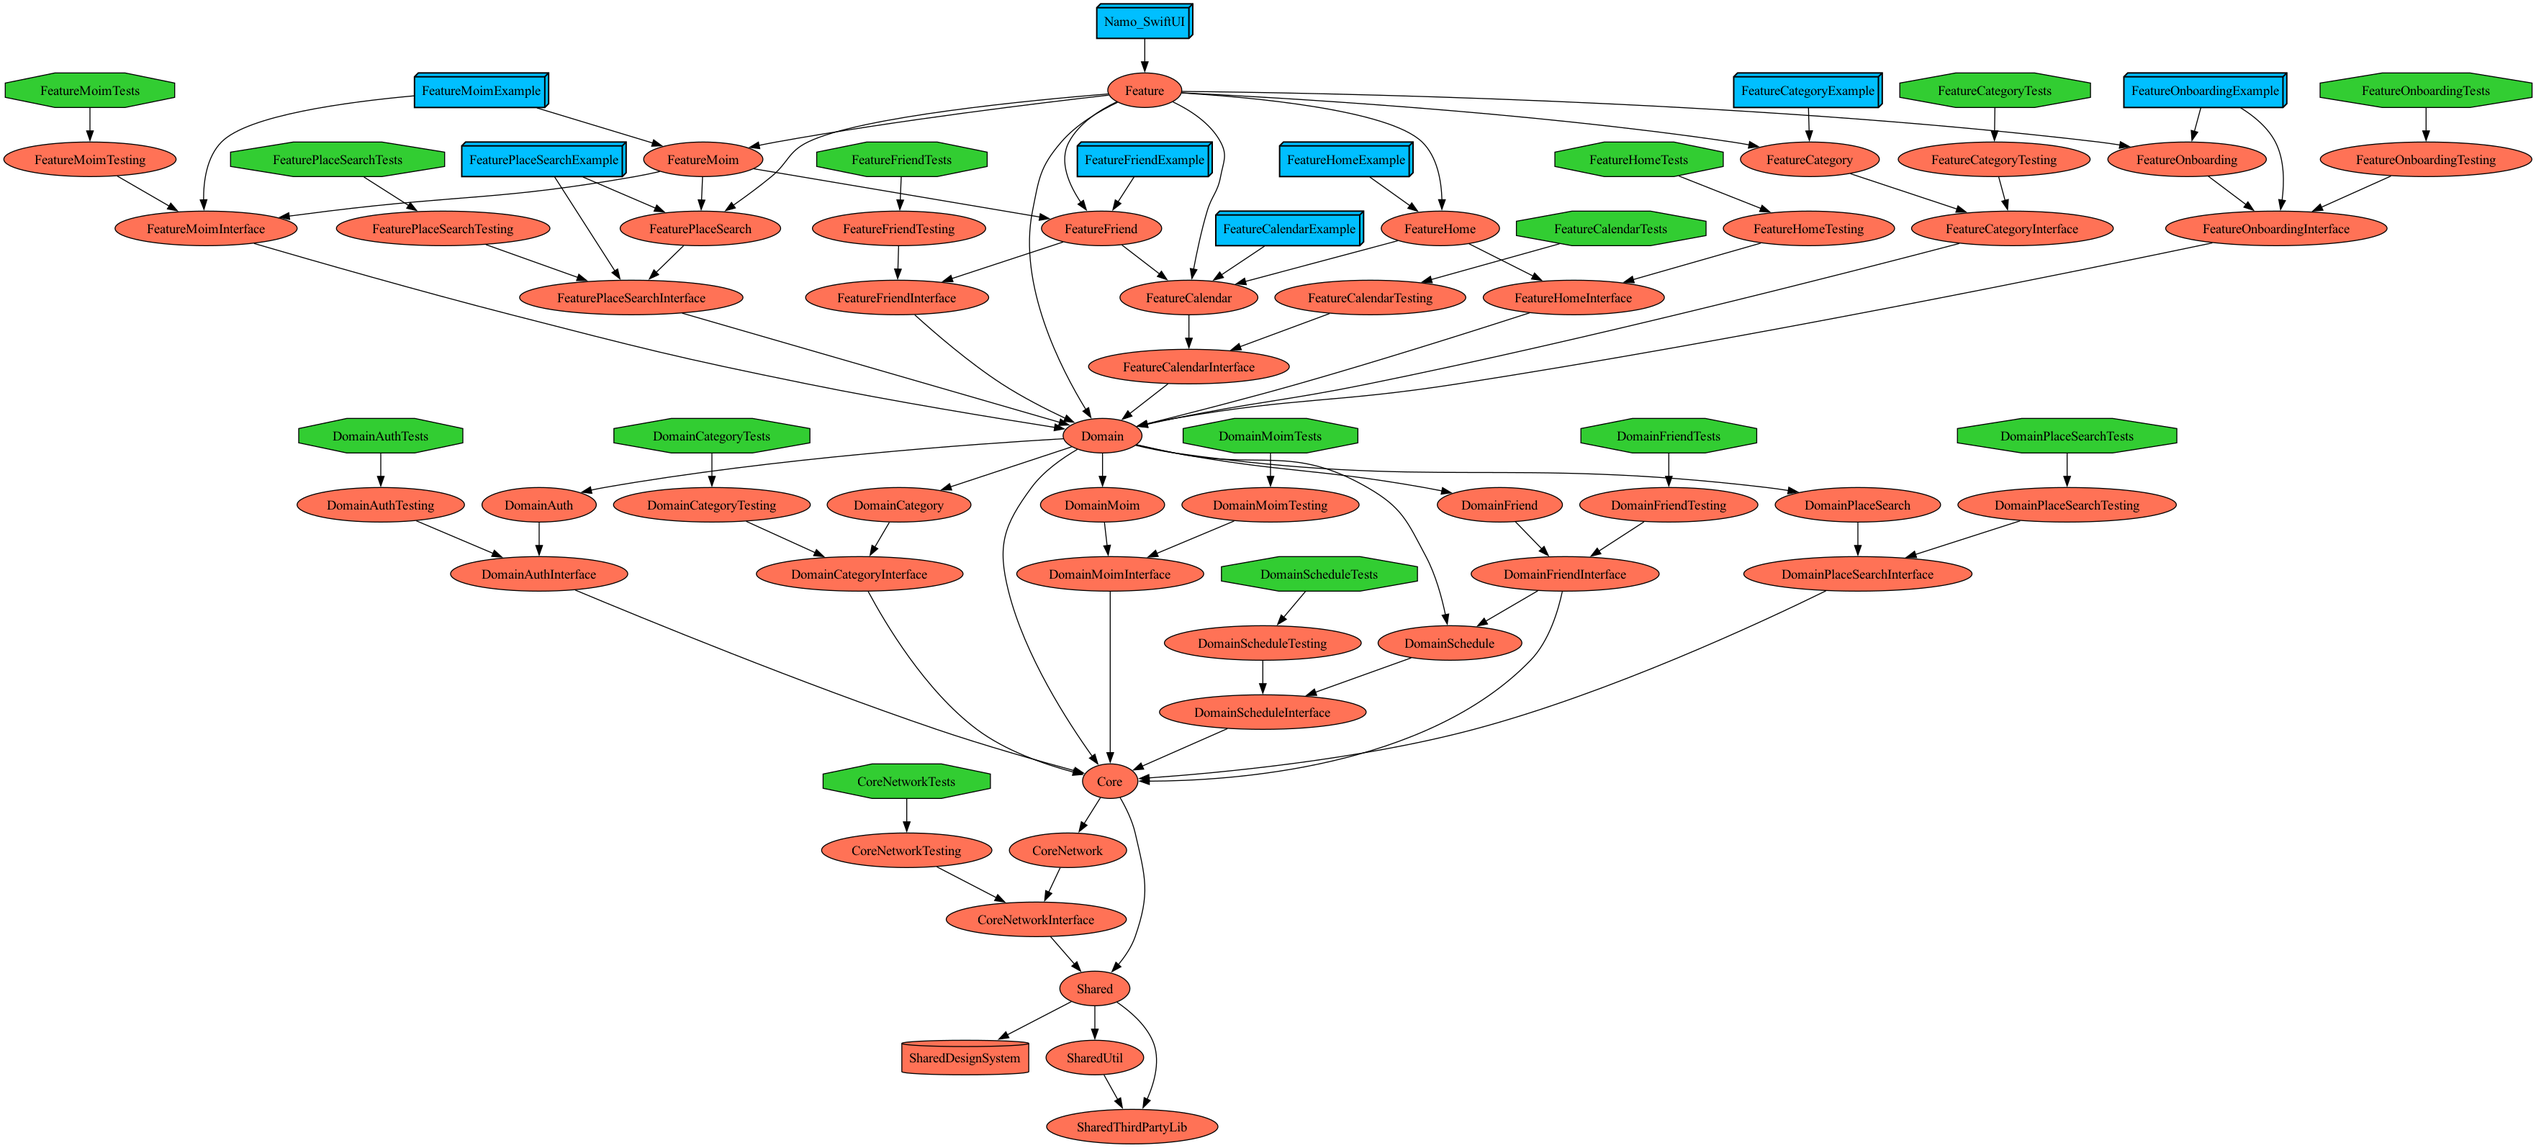
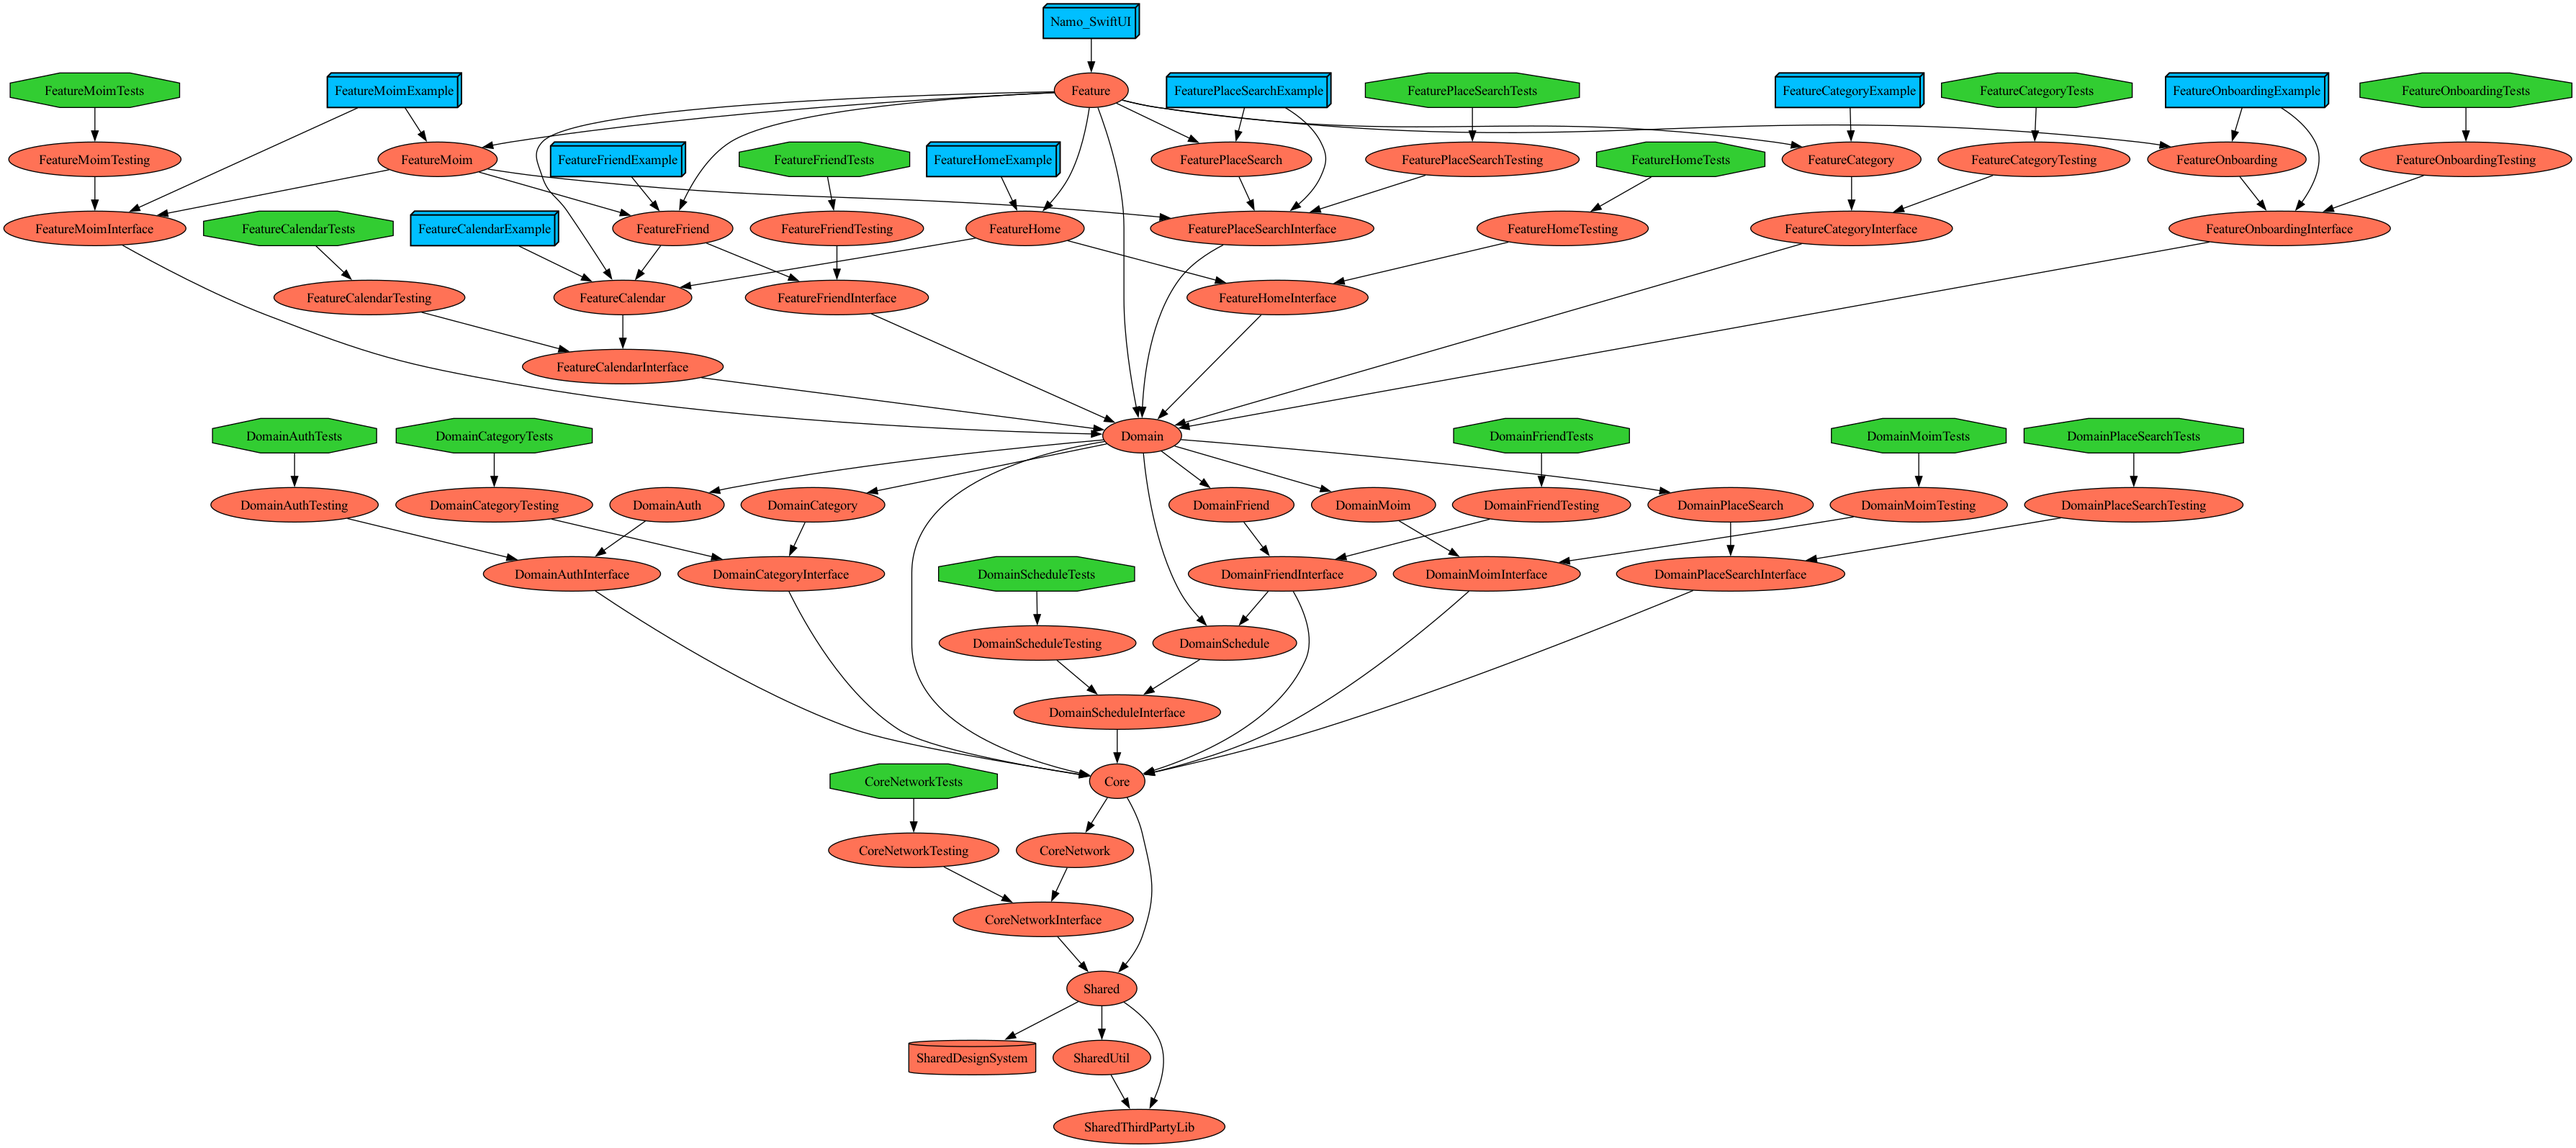
Chore: PlaceSearchView -> Interface 모듈로 이동

Changed region(s): [[0.0, 0.0, 0.9991, 1.0], [0.0, 0.0614, 0.0624, 0.0922], [0.562, 0.3072, 0.5932, 0.3379]]

diff --git a/Namo_SwiftUI/Projects/Feature/Moim/Interface/Sources/MoimEdit/MoimEditInterface.swift b/Namo_SwiftUI/Projects/Feature/Moim/Interface/Sources/MoimEdit/MoimEditInterface.swift
@@ -18,9 +18,7 @@ public struct MoimEditStore {
     
     /// 편집 여부
     public enum Mode: Equatable {
-        case view
-        case edit
-        case compose
+        case view, edit, compose
     }
     private let reducer: Reduce<State, Action>
     
@@ -49,14 +47,12 @@ public struct MoimEditStore {
         /// 커버이미지
         public var coverImage: UIImage?
         
-        /// 방장 여부
-        public var isOwner: Bool = false
-        
         /// 편집 여부
         public var mode: Mode = .compose
         
         public init(moimSchedule: MoimSchedule) {
             self.moimSchedule = moimSchedule
+//            mode = self.moimSchedule.isOwner ? .edit : .view
         }
         
         public init() {

diff --git a/Namo_SwiftUI/Projects/Feature/Moim/Sources/Coordinator/MoimEditCoordinatorView.swift b/Namo_SwiftUI/Projects/Feature/Moim/Sources/Coordinator/MoimEditCoordinatorView.swift
@@ -10,6 +10,7 @@ import ComposableArchitecture
 import TCACoordinators
 
 import SharedDesignSystem
+import FeaturePlaceSearchInterface
 
 public struct MoimEditCoordinatorView: View {
     let store: StoreOf<MoimEditCoordinator>
@@ -24,7 +25,10 @@ public struct MoimEditCoordinatorView: View {
             case let .createMoim(store):
                 MoimScheduleEditView(store: store)
             case .kakaoMap:
-                Text("Test!!")
+                PlaceSearchView(store: .init(initialState: PlaceSearchStore.State(), reducer: {
+                    PlaceSearchStore()                
+                }))
+                .toolbar(.hidden, for: .navigationBar)
             }
         }
         .background(ClearBackground())

diff --git a/Namo_SwiftUI/Projects/Feature/Moim/Sources/Coordinator/MoimEditCoordinator.swift b/Namo_SwiftUI/Projects/Feature/Moim/Sources/Coordinator/MoimEditCoordinator.swift
@@ -11,6 +11,7 @@ import TCACoordinators
 
 import SharedDesignSystem
 import FeatureMoimInterface
+import FeaturePlaceSearchInterface
 import DomainMoimInterface
 
 @Reducer(state: .equatable)
@@ -56,7 +57,7 @@ public struct MoimEditCoordinator {
                 state.routes.push(.kakaoMap)
                 return .none
             case .router(.routeAction(_, action: .createMoim(.cancleButtonTapped))):
-                return .send(.moimEditAction(.cancleButtonTapped))            
+                return .send(.moimEditAction(.cancleButtonTapped))
             default:
                 return .none
             }

diff --git a/Namo_SwiftUI/Projects/Domain/Moim/Interface/Sources/Mapper/MoimScheduleMapper.swift b/Namo_SwiftUI/Projects/Domain/Moim/Interface/Sources/Mapper/MoimScheduleMapper.swift
@@ -40,8 +40,8 @@ public extension MoimSchedule {
               imageUrl: imageUrl,
               period: PeriodDto(startDate: startDate.dateToISO8601(),
                                 endDate: startDate.dateToISO8601()),
-              location: LocationDto(longitude: 0.0,
-                                    latitude: 0.0,
+              location: LocationDto(longitude: longitude,
+                                    latitude: latitude,
                                     locationName: locationName,
                                     kakaoLocationId: kakaoLocationId),
               participantsToAdd: [],

diff --git a/Namo_SwiftUI/Projects/Feature/Moim/Sources/MoimEdit/MoimScheduleEditView.swift b/Namo_SwiftUI/Projects/Feature/Moim/Sources/MoimEdit/MoimScheduleEditView.swift
@@ -56,7 +56,8 @@ public struct MoimScheduleEditView: View {
                 DeleteCircleButton {
                     store.send(.deleteButtonTapped)
                 }
-                //                .opacity(!store.isOwner ? 0 : 1)
+                .offset(y: 20)
+//                .opacity(!store.moimSchedule.isOwner ? 0 : 1)
                 
                 WithPerceptionTracking {
                     VStack(spacing: 0) {

diff --git a/Namo_SwiftUI/Projects/Feature/Moim/Project.swift b/Namo_SwiftUI/Projects/Feature/Moim/Project.swift
@@ -23,8 +23,8 @@ let targets: [Target] = [
         factory: .init(
             dependencies: [
                 .feature(interface: .Moim),
-                .feature(implements: .Friend),
-                .feature(implements: .PlaceSearch)
+                .feature(interface: .PlaceSearch),
+                .feature(implements: .Friend)
             ]
         )
     ),

diff --git a/Namo_SwiftUI/Projects/Feature/Moim/Sources/Coordinator/MoimCoordinatorView.swift b/Namo_SwiftUI/Projects/Feature/Moim/Sources/Coordinator/MoimCoordinatorView.swift
@@ -9,7 +9,6 @@ import SwiftUI
 import ComposableArchitecture
 import TCACoordinators
 
-import FeaturePlaceSearch
 import FeatureFriend
 import SharedDesignSystem
 

diff --git a/Namo_SwiftUI/Projects/Feature/placeSearch/Interface/Sources/PlaceSearchStore.swift b/Namo_SwiftUI/Projects/Feature/placeSearch/Interface/Sources/PlaceSearchStore.swift
@@ -6,7 +6,7 @@
 //
 
 import Foundation
-import FeaturePlaceSearchInterface
+
 import DomainPlaceSearch
 import ComposableArchitecture
 

diff --git a/Namo_SwiftUI/Projects/Feature/Sources/FeatureExport.swift b/Namo_SwiftUI/Projects/Feature/Sources/FeatureExport.swift
@@ -12,4 +12,3 @@
 @_exported import FeatureOnboarding
 @_exported import FeatureCalendar
 @_exported import FeaturePlaceSearch
-
